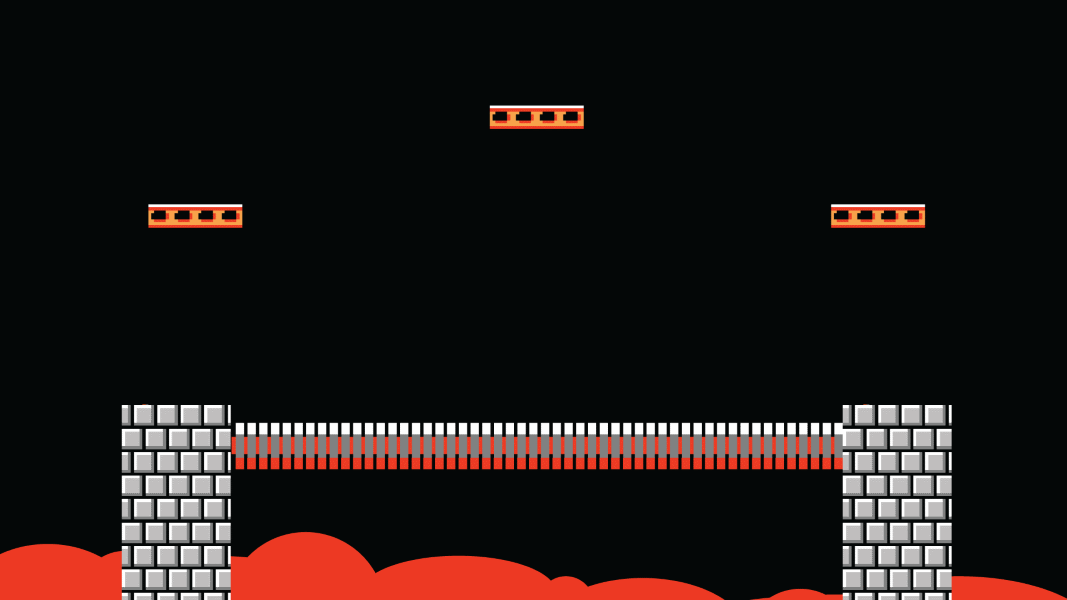
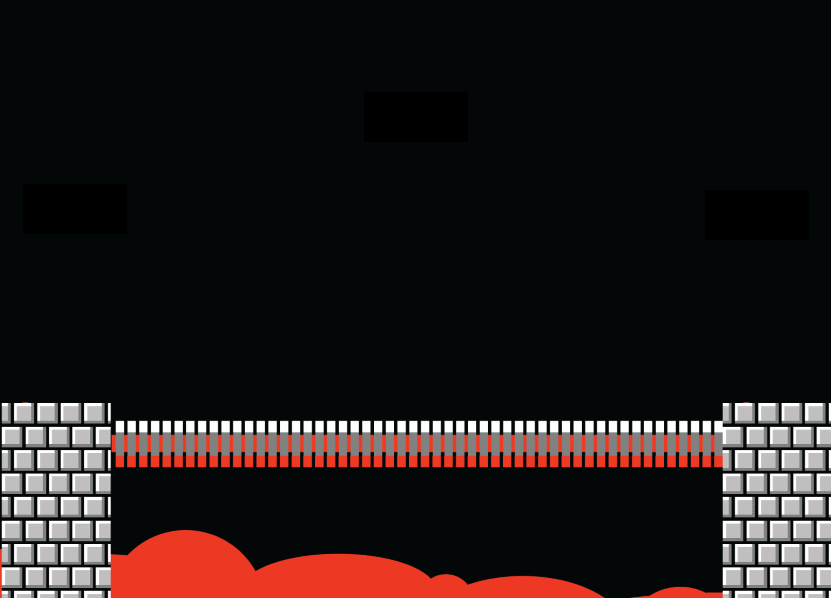
adding third mario level

diff --git a/me/samfreeman/GameControl/LevelLoader.py b/me/samfreeman/GameControl/LevelLoader.py
@@ -39,16 +39,16 @@ class LevelLoader:
         marioTwo = Level("images/background/mario/hills.png",
                          "images/background/mario/Mario-world-1.1.png",
                          cloudsURL,player,inter, "Mario-2")
-        marioThree = Level("",
-                         "",
+        marioThree = Level("",#no background
+                         "images/background/mario/mario-boss-level.png",
                          cloudsURL,player,inter, "Mario-3")
 
         doomOne = Level("images/background/doom/base-layer-background.jpg",
                         "images/background/doom/second layer.png",
                          "", player,inter,"Doom-1")
         # Creating list of levels
-        self.levels =[tutorialOne,tutorialTwo,tutorialThree,marioOne,marioTwo,marioThree,doomOne]
-        self.enemyFiles =("enemies/tutorialOne.txt","enemies/tutorialTwo.txt","enemies/tutorialThree.txt","enemies/marioOne.txt","enemies/marioTwo.txt","enemies/marioThree.txt","enemies/doomOne.txt")
+        self.levels =[marioThree,]#[tutorialOne,tutorialTwo,tutorialThree,marioOne,marioTwo,marioThree,doomOne]
+        self.enemyFiles =("enemies/marioThree.txt",)#("enemies/tutorialOne.txt","enemies/tutorialTwo.txt","enemies/tutorialThree.txt","enemies/marioOne.txt","enemies/marioTwo.txt","enemies/marioThree.txt","enemies/doomOne.txt")
         # Selecting the first level
         self.levelCounter=0
         self.currentLevel=self.levels[self.levelCounter]
